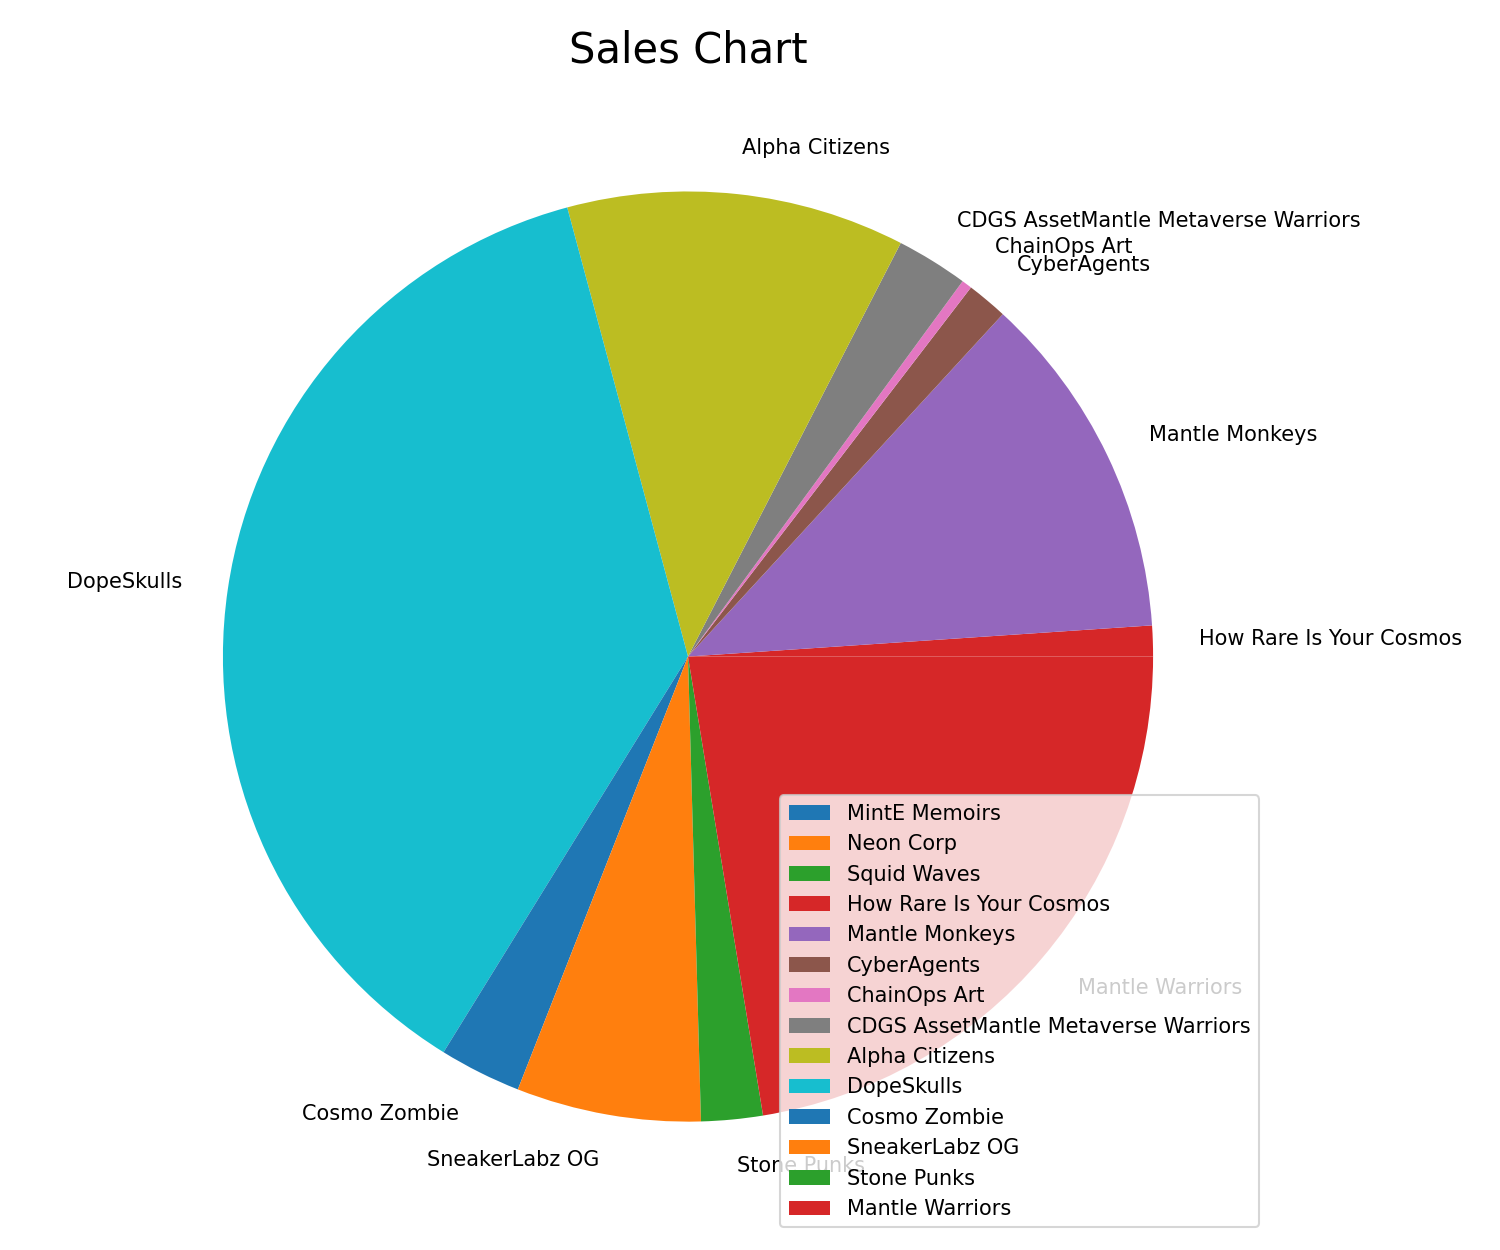
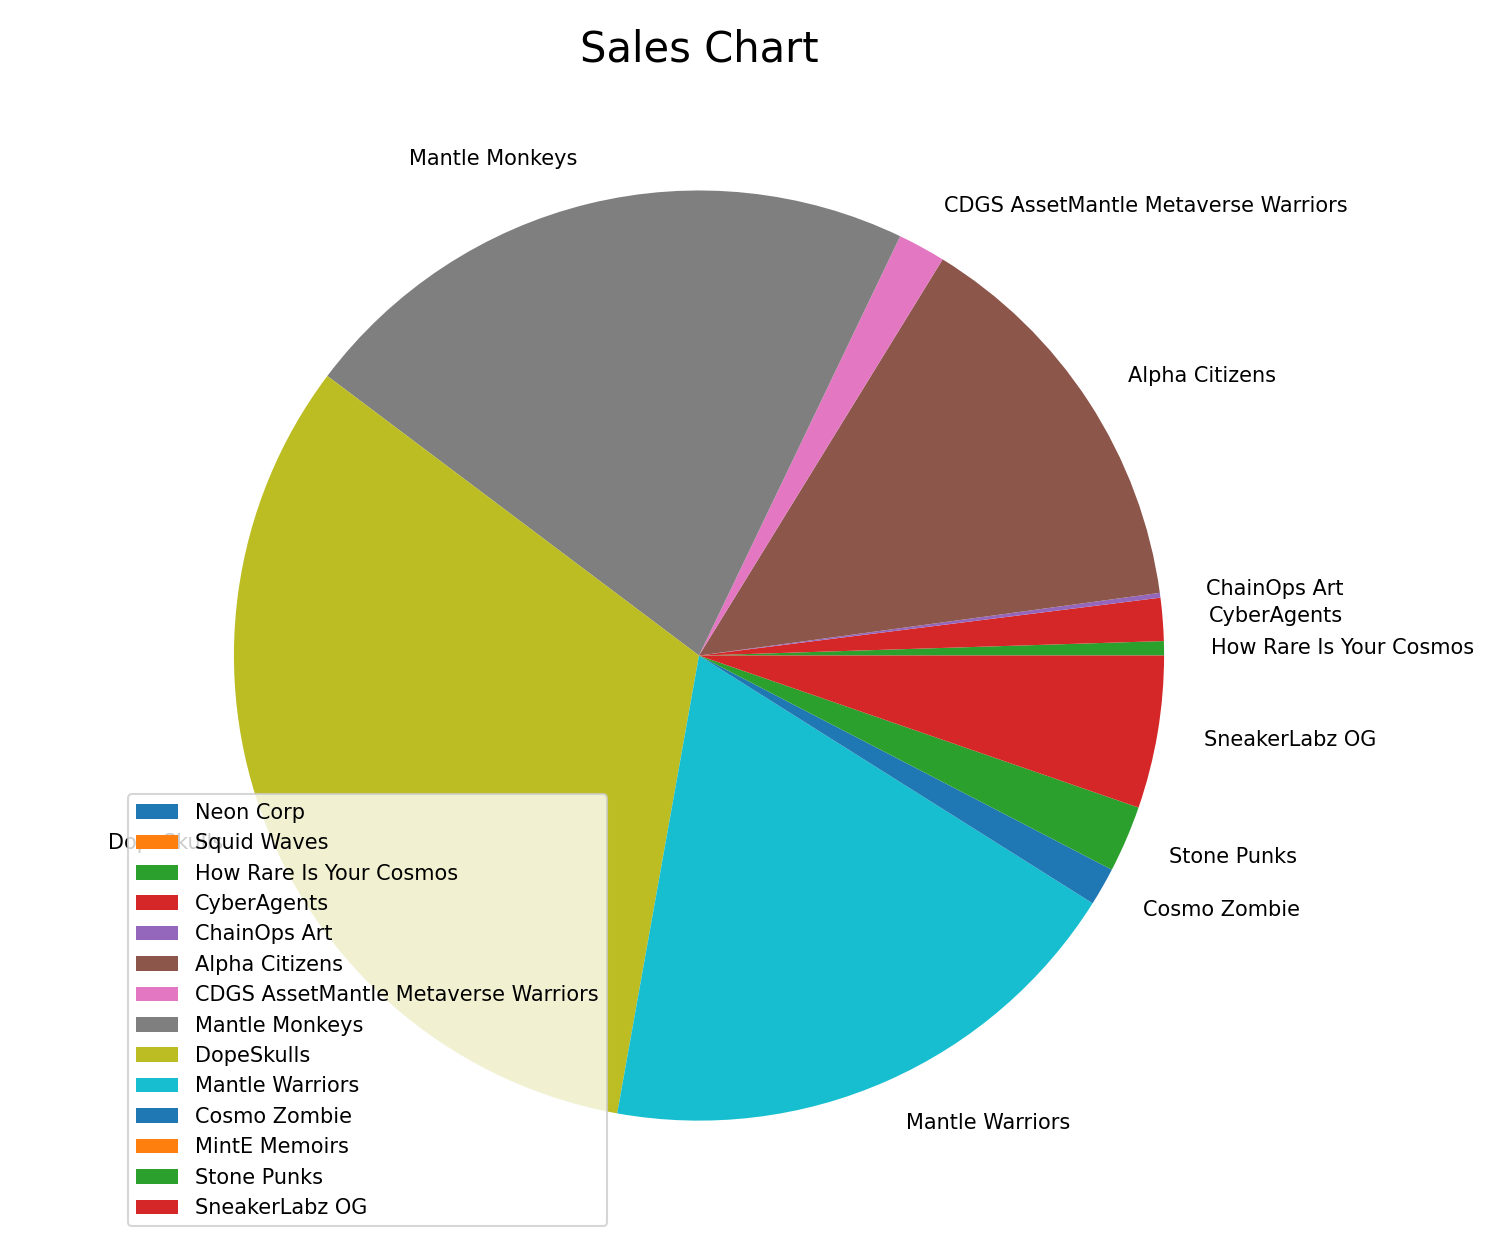
Updated 23 Feb data

diff --git a/main.py b/main.py
@@ -3,7 +3,7 @@ import numpy as np
 import matplotlib
 import matplotlib.pyplot as plt
 
-df = pd.read_csv("data\data_2301.csv")
+df = pd.read_csv("data\data_1602.csv")
 
 collectionName = []
 
@@ -79,7 +79,7 @@ df = df.drop(['id', 'totalMinted', 'totalTraded', 'floorPrice', 'salePrice', 'be
 df2 = df.rename(columns={'collectionName': 'Collection', 'totalNFTs': 'Supply', 'totalSold': 'Sold',
                 'totalVolumeTraded': 'Volume', 'listed': 'Listings', 'publicListingPrice': 'Price'})
 
-df3 = pd.read_csv("data/data_3001.csv")
+df3 = pd.read_csv("data/data_2302.csv")
 
 collectionName = []
 
@@ -180,15 +180,15 @@ for x in range(len(df3)):
 df3.insert(3, "newSales", newSales, True)
 
 df4 = df3.rename(columns={'collectionName': 'Collection', 'totalNFTs': 'Supply', 'totalSold': 'Sold',
-                 'newSales': 'Sales (24h)', 'totalVolumeTraded': 'Volume', 'listed': 'Listings', 'publicListingPrice': 'Price'})
+                 'newSales': 'Sales (1 Week)', 'totalVolumeTraded': 'Volume', 'listed': 'Listings', 'publicListingPrice': 'Price'})
 
 
 print("\n"+df4.to_string(index=False))
 print("\nTotal MNTL Volume = " + str(totalVolume))
 print("Total USD Volume = " + str(format_USD))
-print("\nMNTL Volume (24h) = " + str(totalVolume - totalVolume2))
+print("\nMNTL Volume (1 Week) = " + str(totalVolume - totalVolume2))
 print("Total NFTs Sold = " + str(totalSales))
-print("NFTs sold (24h) = " + str(totalSales - totalSales2))
+print("NFTs sold (1 Week) = " + str(totalSales - totalSales2))
 print("Active Listings = " + str(totalListings)+"\n")
 
 
